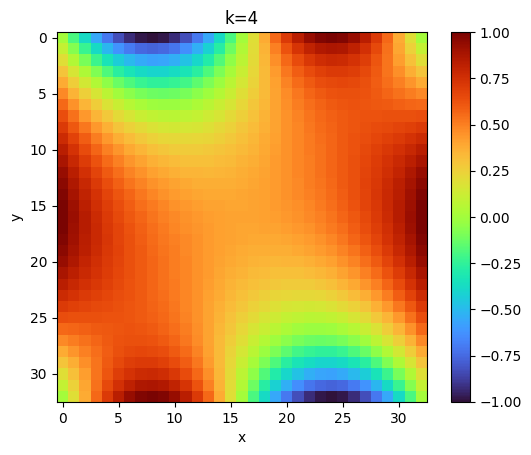
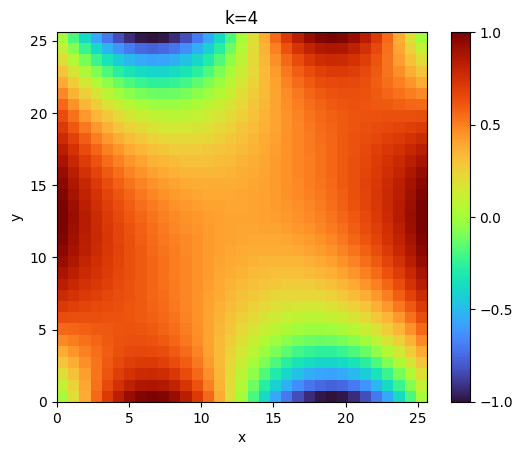
fixed all ticks in plots

diff --git a/lab5/zad1.py b/lab5/zad1.py
@@ -37,7 +37,7 @@ def dens_mesh(V,k):
             V[i+k2][j+k] = 0.5*(V[i][j+k]+V[i+k][j+k])
             V[i+k2][j] = 0.5*(V[i][j]+V[i+k][j])
             V[i][j+k2] = 0.5*(V[i][j]+V[i][j+k])
-@nb.jit(nopython=False)
+
 def main():
     V = np.zeros((nx+1, ny+1))
     sArray = {}
@@ -70,8 +70,10 @@ def main():
         plt.xlabel('x')
         plt.ylabel('y')
         plt.title('k='+str(k))
-        plt.imshow(np.rot90(V[::k, ::k]), cmap='turbo')
-        plt.colorbar()
+        plt.imshow(np.rot90(V[::k, ::k]), cmap='turbo',vmin=-1,vmax=1, extent=[0, xmax, 0, ymax])
+        plt.xticks(np.arange(0, 26, 5))
+        plt.yticks(np.arange(0, 26, 5))
+        plt.colorbar(ticks=[-1, -0.5, 0, 0.5, 1])
         plt.savefig('z1_k='+str(k)+'.png',bbox_inches='tight',transparent=True)
         plt.clf() 
         if k != 1:
@@ -83,6 +85,8 @@ def main():
     plt.xlabel('it')
     plt.ylabel('S')
     plt.legend()
+    plt.xticks(np.arange(0, 700, 100))
+    plt.yticks(np.arange(4.2, 5.65, 0.2))
     plt.savefig('z1_S(it).png',bbox_inches='tight',transparent=True)
     plt.clf()
 
